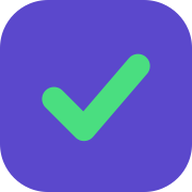
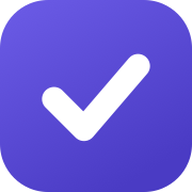
Adopt the reference design's palette and typography
Read the design file rather than guessing at it. It is a warm greige system with a
violet accent and a sage green, at system-font sizes between 11 and 15px, weights
500/550/600, and negative tracking on anything above body size. That is a better
palette than the slate-and-violet it replaces: the neutrals are warm, so the
violet and the green sit in it rather than on it.

Three of its values could not be taken as they are. Its muted greys are #8C8983
at 3.37:1 and #A8A6A1 at 2.35:1, and both carry real information here, so this
uses its next step darker at 5.13:1. Its #EAE8E4 is used for every edge, which is
right for a divider at 1.18:1 and illegible as a control boundary, so control
edges get a warm grey that clears the 3:1 that WCAG 1.4.11 asks for.

The reference is light-only, so the dark theme is derived: the same hue family
taken down to a warm near-black rather than the cold slate it had. A neutral
shadow over greige reads as dirt, so the shadows are warm-tinted as the reference
has them.

The mark is now the reference's gradient chip, and the favicons and theme-color
follow it. All 23 contrast assertions pass in both themes.

Changed region(s): [[0.1875, 0.2812, 0.7812, 0.75], [0.0938, 0.0312, 0.125, 0.0625], [0.0312, 0.0938, 0.0625, 0.125]]

diff --git a/ui/src/styles/tokens.css b/ui/src/styles/tokens.css
@@ -20,70 +20,89 @@
  */
 
 @theme {
-  --font-sans: 'IBM Plex Sans', ui-sans-serif, -apple-system, BlinkMacSystemFont, 'Segoe UI', sans-serif;
+  /* The system stack, as the reference uses. A webfont here buys nothing: this is dense interface
+     text at 11 to 14 pixels, where the system face is better hinted than anything we could load. */
+  --font-sans: -apple-system, BlinkMacSystemFont, 'Segoe UI', 'Helvetica Neue', Arial, sans-serif;
   --font-mono: 'JetBrains Mono', ui-monospace, SFMono-Regular, Menlo, monospace;
 
   /* A restrained type scale. Five sizes is enough for an interface this dense; more sizes read as
      indecision rather than hierarchy. */
+  /* Denser than before, matching the reference: 11 to 15px, not 12 to 17. Interface text this
+     compact is scanned rather than read, and the extra size was making the sidebar feel crowded
+     when the real problem was that nothing was subordinate. */
   --text-2xs: 0.6875rem;
   --text-2xs--line-height: 1rem;
-  --text-xs: 0.75rem;
-  --text-xs--line-height: 1.125rem;
-  --text-sm: 0.8125rem;
-  --text-sm--line-height: 1.375rem;
-  --text-base: 0.9375rem;
-  --text-base--line-height: 1.5rem;
-  --text-lg: 1.0625rem;
-  --text-lg--line-height: 1.5rem;
+  --text-xs: 0.71875rem;
+  --text-xs--line-height: 1.0625rem;
+  --text-sm: 0.78125rem;
+  --text-sm--line-height: 1.25rem;
+  --text-base: 0.84375rem;
+  --text-base--line-height: 1.3125rem;
+  --text-lg: 0.9375rem;
+  --text-lg--line-height: 1.375rem;
+
+  /* The reference sets 550 as its workhorse weight - between normal and semibold, which the
+     system faces support and which reads as emphasis without shouting. */
+  --font-weight-medium: 500;
+  --font-weight-semibold: 550;
+  --font-weight-bold: 600;
+
+  /* Negative tracking on anything above body size, as the reference does throughout. */
+  --tracking-tight: -0.01em;
+  --tracking-tighter: -0.032em;
 }
 
 /* Light. Warm off-white rather than pure white: a full-brightness field beside a code block is
    fatiguing, and this interface is read for long stretches. */
 :root {
-  --qm-bg: #faf9f7;
+  --qm-bg: #fbfbfa;
   --qm-surface: #ffffff;
-  --qm-surface-raised: #f4f2ee;
-  /* Two border tokens, and the difference matters: --qm-border draws control boundaries and has to
-     clear 3:1 (WCAG 1.4.11), while --qm-border-soft only separates regions and does not. Using one
-     token for both would mean either illegible controls or heavy-handed dividers. */
+  --qm-surface-raised: #f1f0ed;
+  /* Two border tokens, and the difference matters. --qm-border draws control boundaries and must
+     clear 3:1 (WCAG 1.4.11); --qm-border-soft only separates regions and does not. The reference
+     uses #EAE8E4 for both, which is 1.18:1 - correct for a divider, illegible as a control edge. */
   --qm-border: #8a8279;
-  --qm-border-soft: #e7e3dc;
+  --qm-border-soft: #eae8e4;
 
-  --qm-text: #1c1917;
-  --qm-text-muted: #5c5651;
+  --qm-text: #1b1a18;
+  /* The reference's muted greys are #8C8983 (3.37:1) and #A8A6A1 (2.35:1). Both carry real
+     information here, so this is its next step darker, which clears 4.5:1 while staying warm. */
+  --qm-text-muted: #6e6b65;
 
-  --qm-accent: #5b48cc;
-  --qm-accent-hover: #4f3fb8;
+  --qm-accent: #5b4bd6;
+  --qm-accent-hover: #4a3bc4;
   --qm-on-accent: #ffffff;
   --qm-accent-wash: #eeecfb;
 
-  --qm-verified: #15803d;
-  --qm-failed: #b91c1c;
-  --qm-waiting: #a16207;
+  /* Sage rather than a signal green. It still means exactly one thing; it just says it quietly. */
+  --qm-verified: #4a7c59;
+  --qm-failed: #a8342c;
+  --qm-waiting: #8a6410;
 
-  --qm-shadow: 0 1px 2px rgb(28 25 23 / 0.06), 0 1px 3px rgb(28 25 23 / 0.04);
+  /* Warm-tinted, as the reference has them - a neutral grey shadow over greige reads as dirt. */
+  --qm-shadow: 0 1px 2px rgb(27 26 24 / 0.04), 0 8px 24px -12px rgb(27 26 24 / 0.14);
 }
 
 :root.dark {
-  --qm-bg: #0f172a;
-  --qm-surface: #1b2336;
-  --qm-surface-raised: #272f42;
-  --qm-border: #64748b;
-  --qm-border-soft: #2a3348;
+  --qm-bg: #171512;
+  --qm-surface: #201d19;
+  --qm-surface-raised: #2a2620;
+  --qm-border: #7a736a;
+  --qm-border-soft: #302c26;
 
-  --qm-text: #f8fafc;
-  --qm-text-muted: #94a3b8;
+  --qm-text: #f5f3f0;
+  --qm-text-muted: #a8a29a;
 
   --qm-accent: #a78bfa;
-  --qm-accent-hover: #b9a5fc;
-  --qm-on-accent: #0f172a;
-  --qm-accent-wash: #221f3d;
+  --qm-accent-hover: #b4a0fb;
+  --qm-on-accent: #171512;
+  --qm-accent-wash: #262040;
 
-  --qm-verified: #22c55e;
-  --qm-failed: #f87171;
-  --qm-waiting: #fbbf24;
+  --qm-verified: #7fb88c;
+  --qm-failed: #f0918c;
+  --qm-waiting: #e0b15c;
 
-  --qm-shadow: 0 1px 2px rgb(0 0 0 / 0.4), 0 1px 3px rgb(0 0 0 / 0.3);
+  --qm-shadow: 0 1px 2px rgb(0 0 0 / 0.4), 0 8px 24px -12px rgb(0 0 0 / 0.5);
 }
 
 @theme inline {

diff --git a/ui/src/theme.ts b/ui/src/theme.ts
@@ -10,99 +10,99 @@
  * takes every action instead.
  */
 const LIGHT = {
-  primaryBg: '#faf9f7',
+  primaryBg: '#fbfbfa',
   secondaryBg: '#ffffff',
-  sidebarBg: '#faf9f7',
-  topbarBg: '#faf9f7',
+  sidebarBg: '#fbfbfa',
+  topbarBg: '#fbfbfa',
   cardBg: '#ffffff',
-  border: '#e7e3dc',
+  border: '#eae8e4',
 
-  textPrimary: '#1c1917',
-  textSecondary: '#5c5651',
+  textPrimary: '#1b1a18',
+  textSecondary: '#6e6b65',
 
   inputBoxBg: '#ffffff',
   inputBorder: '#8a8279',
 
-  userMessageBg: '#f4f2ee',
-  userMessageText: '#1c1917',
+  userMessageBg: '#f1f0ed',
+  userMessageText: '#1b1a18',
   assistantMessageBg: 'transparent',
-  assistantMessageText: '#1c1917',
+  assistantMessageText: '#1b1a18',
 
-  primaryButtonBg: '#8a6a22',
-  primaryButtonHover: '#6f5419',
+  primaryButtonBg: '#5b4bd6',
+  primaryButtonHover: '#4a3bc4',
   primaryButtonText: '#ffffff',
-  secondaryButtonBg: '#f4f2ee',
-  secondaryButtonHover: '#e7e3dc',
-  secondaryButtonText: '#1c1917',
+  secondaryButtonBg: '#f1f0ed',
+  secondaryButtonHover: '#eae8e4',
+  secondaryButtonText: '#1b1a18',
   ghostButtonBg: 'transparent',
-  ghostButtonHover: '#f4f2ee',
-  ghostButtonText: '#5c5651',
+  ghostButtonHover: '#f1f0ed',
+  ghostButtonText: '#6e6b65',
 
-  successBg: '#e8f5ec',
-  successText: '#15803d',
-  failureBg: '#fdeaea',
-  failureText: '#b91c1c',
-  warningBg: '#fdf4e3',
-  warningText: '#a16207',
+  successBg: '#eaf2ec',
+  successText: '#4a7c59',
+  failureBg: '#fbeceb',
+  failureText: '#a8342c',
+  warningBg: '#faf1e0',
+  warningText: '#8a6410',
 
-  focusRing: '#8a6a22',
-  overlay: 'rgba(28, 25, 23, 0.4)',
-  shadowColor: 'rgba(28, 25, 23, 0.12)',
-  scrollbarThumb: '#d9d4cc',
+  focusRing: '#5b4bd6',
+  overlay: 'rgba(27, 26, 24, 0.4)',
+  shadowColor: 'rgba(27, 26, 24, 0.14)',
+  scrollbarThumb: '#eae8e4',
 
-  dropdownSelectedItemBg: '#f4f2ee',
-  dropdownSelectedItemText: '#1c1917',
+  dropdownSelectedItemBg: '#eeecfb',
+  dropdownSelectedItemText: '#1b1a18',
 } as const;
 
 const DARK = {
-  primaryBg: '#0f172a',
-  secondaryBg: '#1b2336',
-  sidebarBg: '#0f172a',
-  topbarBg: '#0f172a',
-  cardBg: '#1b2336',
-  border: '#2a3348',
+  primaryBg: '#171512',
+  secondaryBg: '#201d19',
+  sidebarBg: '#171512',
+  topbarBg: '#171512',
+  cardBg: '#201d19',
+  border: '#302c26',
 
-  textPrimary: '#f8fafc',
-  textSecondary: '#94a3b8',
+  textPrimary: '#f5f3f0',
+  textSecondary: '#a8a29a',
 
-  inputBoxBg: '#1b2336',
-  inputBorder: '#64748b',
+  inputBoxBg: '#201d19',
+  inputBorder: '#7a736a',
 
-  userMessageBg: '#272f42',
-  userMessageText: '#f8fafc',
+  userMessageBg: '#2a2620',
+  userMessageText: '#f5f3f0',
   assistantMessageBg: 'transparent',
-  assistantMessageText: '#f8fafc',
+  assistantMessageText: '#f5f3f0',
 
-  primaryButtonBg: '#c8a35a',
-  primaryButtonHover: '#d8b672',
-  primaryButtonText: '#0f172a',
-  secondaryButtonBg: '#272f42',
-  secondaryButtonHover: '#334155',
-  secondaryButtonText: '#f8fafc',
+  primaryButtonBg: '#a78bfa',
+  primaryButtonHover: '#b4a0fb',
+  primaryButtonText: '#171512',
+  secondaryButtonBg: '#2a2620',
+  secondaryButtonHover: '#353029',
+  secondaryButtonText: '#f5f3f0',
   ghostButtonBg: 'transparent',
-  ghostButtonHover: '#1b2336',
-  ghostButtonText: '#94a3b8',
+  ghostButtonHover: '#201d19',
+  ghostButtonText: '#a8a29a',
 
-  successBg: '#0f2a1b',
-  successText: '#22c55e',
-  failureBg: '#2a1013',
-  failureText: '#f87171',
-  warningBg: '#2a2210',
-  warningText: '#fbbf24',
+  successBg: '#1a2a1e',
+  successText: '#7fb88c',
+  failureBg: '#2c1a19',
+  failureText: '#f0918c',
+  warningBg: '#2c2415',
+  warningText: '#e0b15c',
 
-  focusRing: '#c8a35a',
-  overlay: 'rgba(8, 12, 20, 0.72)',
-  shadowColor: 'rgba(0, 0, 0, 0.6)',
-  scrollbarThumb: '#64748b',
+  focusRing: '#a78bfa',
+  overlay: 'rgba(10, 9, 8, 0.72)',
+  shadowColor: 'rgba(0, 0, 0, 0.5)',
+  scrollbarThumb: '#302c26',
 
-  dropdownSelectedItemBg: '#272f42',
-  dropdownSelectedItemText: '#f8fafc',
+  dropdownSelectedItemBg: '#262040',
+  dropdownSelectedItemText: '#f5f3f0',
 } as const;
 
 const SHARED = {
-  fontFamily: "'IBM Plex Sans', ui-sans-serif, -apple-system, BlinkMacSystemFont, 'Segoe UI', sans-serif",
+  fontFamily: "-apple-system, BlinkMacSystemFont, 'Segoe UI', 'Helvetica Neue', Arial, sans-serif",
   composerRadius: '12px',
-  radius: '8px',
+  radius: '9px',
 } as const;
 
 export function tokensFor(mode: 'light' | 'dark') {

diff --git a/ui/src/layout/StatusRail.tsx b/ui/src/layout/StatusRail.tsx
@@ -29,7 +29,7 @@ function Section({
   return (
     <section className="border-b border-line-soft px-5 py-4">
       <div className="mb-3 flex items-baseline justify-between gap-3">
-        <h2 className="text-2xs font-semibold uppercase tracking-[0.09em] text-muted">{label}</h2>
+        <h2 className="text-2xs font-[550] uppercase tracking-[0.07em] text-muted">{label}</h2>
         {badge && <span className="qm-nums text-2xs text-muted">{badge}</span>}
       </div>
       {children}
@@ -212,7 +212,7 @@ function Verdict({ last }: { last: Run }) {
       <p
         aria-live="polite"
         className={[
-          'flex items-center gap-2.5 text-sm font-semibold',
+          'flex items-center gap-2.5 text-sm font-[550]',
           green ? 'text-verified' : 'text-failed',
         ].join(' ')}
       >
@@ -351,7 +351,7 @@ function ApprovalPrompt({
       <p role="alert" className="sr-only">
         Approval required before {pending.toolName} can run. The agent is paused.
       </p>
-      <p className="flex items-center gap-2.5 text-sm font-semibold text-waiting">
+      <p className="flex items-center gap-2.5 text-sm font-[550] text-waiting">
         <ClockIcon />
         Approval required
       </p>
@@ -431,7 +431,7 @@ function OutputDialog({ run, green, onClose }: { run: Run; green: boolean; onClo
       >
         <header className="flex items-center gap-2.5 border-b border-line-soft px-4 py-3">
           <span className={green ? 'text-verified' : 'text-failed'}>{green ? <CheckIcon /> : <CrossIcon />}</span>
-          <h2 className={['text-sm font-semibold', green ? 'text-verified' : 'text-failed'].join(' ')}>
+          <h2 className={['text-sm font-[550]', green ? 'text-verified' : 'text-failed'].join(' ')}>
             {green ? 'Last run passed' : 'Last run did not pass'}
           </h2>
           {run.exitCode !== null && (

diff --git a/ui/index.html b/ui/index.html
@@ -13,12 +13,12 @@
     <link rel="icon" type="image/svg+xml" href="/favicon.svg" />
     <link rel="alternate icon" type="image/png" href="/icon-192.png" />
     <link rel="apple-touch-icon" href="/apple-touch-icon.png" />
-    <link rel="mask-icon" href="/favicon.svg" color="#5b48cc" />
+    <link rel="mask-icon" href="/favicon.svg" color="#5b4bd6" />
 
     <!-- The browser paints its own chrome behind the page; without these the address bar stays
          light while the interface is dark. -->
-    <meta name="theme-color" content="#faf9f7" media="(prefers-color-scheme: light)" />
-    <meta name="theme-color" content="#0f172a" media="(prefers-color-scheme: dark)" />
+    <meta name="theme-color" content="#fbfbfa" media="(prefers-color-scheme: light)" />
+    <meta name="theme-color" content="#171512" media="(prefers-color-scheme: dark)" />
     <meta name="color-scheme" content="light dark" />
 
     <meta

diff --git a/ui/src/layout/Sidebar.tsx b/ui/src/layout/Sidebar.tsx
@@ -53,7 +53,7 @@ export function SidebarHeader({
         </span>
       )}
       <div className="min-w-0 flex-1">
-        <h1 className="text-base font-semibold leading-tight tracking-[-0.01em]">Quartermaster</h1>
+        <h1 className="text-base font-[550] leading-tight tracking-[-0.01em]">Quartermaster</h1>
         <p className="text-2xs text-muted">proves it, then asks</p>
       </div>
       <ThemeToggle mode={mode} resolved={resolved} onChange={onThemeChange} />
@@ -104,7 +104,7 @@ function Reach() {
 
   return (
     <section className="border-t border-line-soft px-5 py-4" aria-labelledby="reach-heading">
-      <h2 id="reach-heading" className="mb-3 text-2xs font-semibold uppercase tracking-[0.09em] text-muted">
+      <h2 id="reach-heading" className="mb-3 text-2xs font-[550] uppercase tracking-[0.07em] text-muted">
         Can reach
       </h2>
 

diff --git a/ui/src/layout/ThreadRow.tsx b/ui/src/layout/ThreadRow.tsx
@@ -96,7 +96,7 @@ export function ThreadList({ header, children }: { header: ReactNode; children: 
   return (
     <div className="flex min-h-0 flex-1 flex-col">
       <div className="flex items-baseline justify-between gap-2 px-5 pb-2 pt-4">
-        <h2 className="text-2xs font-semibold uppercase tracking-[0.09em] text-muted">Conversations</h2>
+        <h2 className="text-2xs font-[550] uppercase tracking-[0.07em] text-muted">Conversations</h2>
         {count > 0 && <span className="qm-nums text-2xs text-muted">{count}</span>}
       </div>
       {header}

diff --git a/ui/src/layout/Welcome.tsx b/ui/src/layout/Welcome.tsx
@@ -64,7 +64,7 @@ export function Welcome({ heading }: { heading?: string }) {
         </span>
       </div>
 
-      <h2 className="text-center text-2xl font-semibold tracking-[-0.02em] text-ink">
+      <h2 className="text-center text-2xl font-[550] tracking-[-0.032em] text-ink">
         {heading ?? 'What should it prove?'}
       </h2>
       <p className="mt-2 max-w-[46ch] text-center text-sm text-muted">
